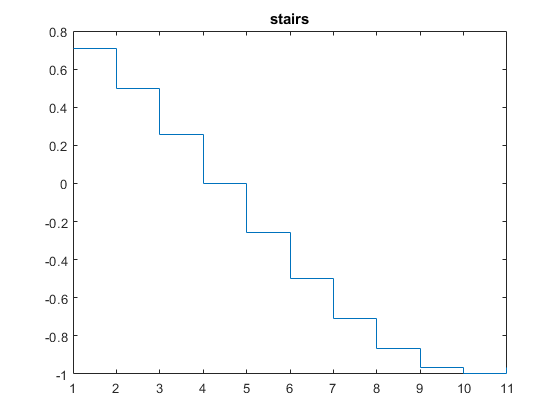
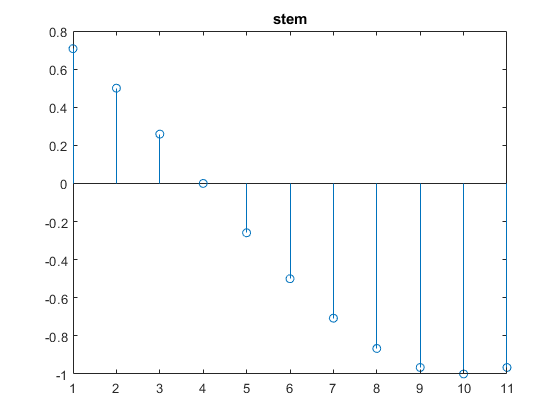
pbvlis

diff --git a/Pratica 2/html/pratica_2.html b/Pratica 2/html/pratica_2.html
@@ -9,7 +9,7 @@ To make changes, update the MATLAB code and republish this document.
 <title>Laborat&oacute;rio de Sistemas Din&acirc;icos</title>
 <meta name="generator" content="MATLAB 24.1">
 <link rel="schema.DC" href="http://purl.org/dc/elements/1.1/">
-<meta name="DC.date" content="2024-04-22">
+<meta name="DC.date" content="2024-04-28">
 <meta name="DC.source" content="pratica_2.m">
 <style type="text/css">
 html,body,div,span,applet,object,iframe,h1,h2,h3,h4,h5,h6,p,blockquote,pre,a,abbr,acronym,address,big,cite,code,del,dfn,em,font,img,ins,kbd,q,s,samp,small,strike,strong,tt,var,b,u,i,center,dl,dt,dd,ol,ul,li,fieldset,form,label,legend,table,caption,tbody,tfoot,thead,tr,th,td{margin:0;padding:0;border:0;outline:0;font-size:100%;vertical-align:baseline;background:transparent}body{line-height:1}ol,ul{list-style:none}blockquote,q{quotes:none}blockquote:before,blockquote:after,q:before,q:after{content:'';content:none}:focus{outine:0}ins{text-decoration:none}del{text-decoration:line-through}table{border-collapse:collapse;border-spacing:0}
@@ -98,6 +98,9 @@ table td { padding:7px 5px; text-align:left; vertical-align:top; border:1px soli
 <li>
 <a href="#5">Ex03</a>
 </li>
+<li>
+<a href="#6">Ex04</a>
+</li>
 </ul>
 </div>
 <h2 id="1">Limpar workspcade</h2>
@@ -166,8 +169,44 @@ figure;
 bar(x_n);
 title(<span class="string">'bar'</span>);
 </pre>
-<img vspace="5" hspace="5" src="pratica_2_04.png" alt=""> <img vspace="5" hspace="5" src="pratica_2_05.png" alt=""> <img vspace="5" hspace="5" src="pratica_2_06.png" alt=""> <h2 id="5">Ex03</h2>
-<p class="footer">
+<img vspace="5" hspace="5" src="pratica_2_04.png" alt=""> <img vspace="5" hspace="5" src="pratica_2_05.png" alt=""> <img vspace="5" hspace="5" src="pratica_2_06.png" alt=""> <img vspace="5" hspace="5" src="pratica_2_07.png" alt=""> <h2 id="5">Ex03</h2>
+<pre class="codeinput">y = zeros(1,3);
+
+<span class="comment">% Y[0] = x[n-1] + 2y[n-1]</span>
+y(1) = (2) + 2*(10);
+
+
+<span class="keyword">for</span> n = 2:3
+  y(n) = 2 + 2*y(n-1);
+<span class="keyword">end</span>
+
+<span class="keyword">for</span> n = 1:3
+    fprintf(<span class="string">"Y[%d] = %d\n"</span>,n-1 ,y(n));
+<span class="keyword">end</span>
+</pre>
+<pre class="codeoutput">Y[0] = 22
+Y[1] = 46
+Y[2] = 94
+</pre>
+<h2 id="6">Ex04</h2>
+<pre class="codeinput">y = zeros(1,10);
+
+<span class="comment">%Y[0] = x[n] - 2x[n-1] + y[n-1] - 0.24y[n-2]</span>
+y(1) = (0) - (2*(-1)) + (2) - (0.24*(1));
+
+<span class="comment">%Y[1] = x[n] - 2x[n-1] + y[n-1] - 0.24y[n-2]</span>
+y(2) = (1) - 2*(0) + y(1) - 0.24*(2);
+
+
+<span class="keyword">for</span> n = 3:10
+  y(n) = (n) - 2*(n-1) + y(n-1) - 0.24*y(n-2);
+<span class="keyword">end</span>
+
+figure;
+n = 0:9;
+stem(n,y);
+</pre>
+<img vspace="5" hspace="5" src="pratica_2_08.png" alt=""> <img vspace="5" hspace="5" src="pratica_2_09.png" alt=""> <p class="footer">
 <br>
 <a href="https://www.mathworks.com/products/matlab/">Published with MATLAB&reg; R2024a</a>
 <br>
@@ -238,6 +277,39 @@ bar(x_n);
 title('bar');
 
 %% Ex03
+
+y = zeros(1,3);
+
+% Y[0] = x[n-1] + 2y[n-1]
+y(1) = (2) + 2*(10);
+
+
+for n = 2:3
+  y(n) = 2 + 2*y(n-1);
+end
+
+for n = 1:3
+    fprintf("Y[%d] = %d\n",n-1 ,y(n));
+end
+
+%% Ex04
+
+y = zeros(1,10);
+
+%Y[0] = x[n] - 2x[n-1] + y[n-1] - 0.24y[n-2]
+y(1) = (0) - (2*(-1)) + (2) - (0.24*(1));
+
+%Y[1] = x[n] - 2x[n-1] + y[n-1] - 0.24y[n-2]
+y(2) = (1) - 2*(0) + y(1) - 0.24*(2);
+
+
+for n = 3:10
+  y(n) = (n) - 2*(n-1) + y(n-1) - 0.24*y(n-2);
+end
+
+figure;
+n = 0:9;
+stem(n,y);
 ##### SOURCE END #####
 -->
 </body>

diff --git a/Pratica 2/pratica_2.m b/Pratica 2/pratica_2.m
@@ -64,12 +64,12 @@ title('bar');
 
 y = zeros(1,3);
 
-%condições iniciais
-y(1) = 22;
-x = 2;
+% Y[0] = x[n-1] + 2y[n-1]
+y(1) = (2) + 2*(10);
+
 
 for n = 2:3
-  y(n) = x + 2*y(n-1);
+  y(n) = 2 + 2*y(n-1);
 end
 
 for n = 1:3
@@ -80,17 +80,17 @@ end
 
 y = zeros(1,10);
 
-%Y[0] 
-y(1) = 0 - (2*(-1)) + (2) - (0.24*(1));
+%Y[0] = x[n] - 2x[n-1] + y[n-1] - 0.24y[n-2]
+y(1) = (0) - (2*(-1)) + (2) - (0.24*(1));
 
-%Y[1]
-y(2) = 1 - 2*(0) + y(1) - 0.24*(2);
+%Y[1] = x[n] - 2x[n-1] + y[n-1] - 0.24y[n-2]
+y(2) = (1) - 2*(0) + y(1) - 0.24*(2);
 
 
 for n = 3:10
   y(n) = (n) - 2*(n-1) + y(n-1) - 0.24*y(n-2);
 end
 
-n = 0:9;
 figure;
+n = 0:9;
 stem(n,y);
